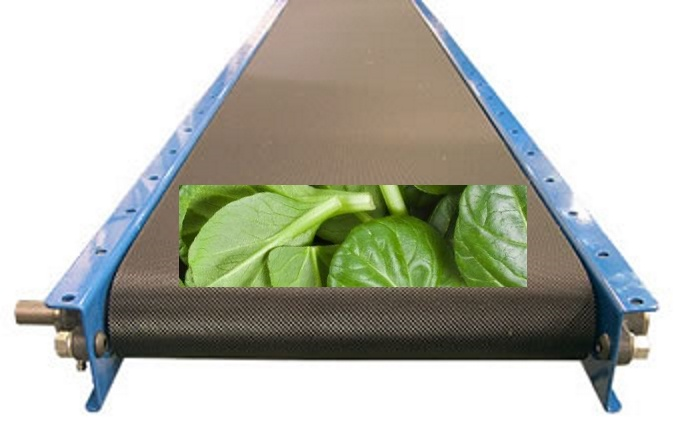
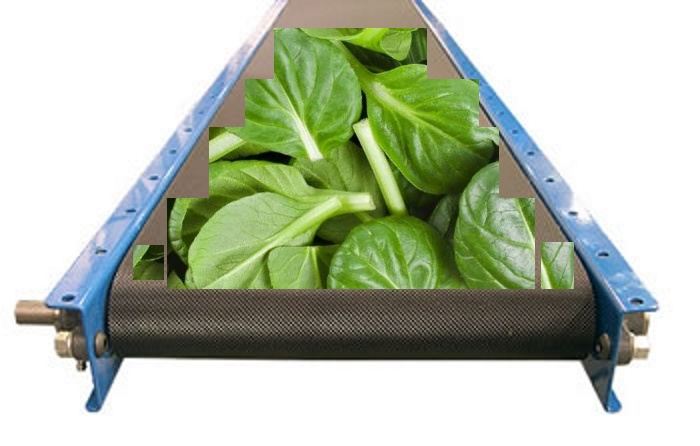
Added in batch 1 of 5 of additional generate sample functionality from more advanced, problematic script.

Changed region(s): [[0.18, 0.0583, 0.84, 0.6704]]

diff --git a/scripts/sampleGeneration_scripts/generate_sample.py b/scripts/sampleGeneration_scripts/generate_sample.py
@@ -1,8 +1,16 @@
+'''
+For usage: python generate_sample.py -h
+
+Selct area to place sample, then press enter.
+'''
+
 import sys
 import os
 import numpy as np
 import cv2
 import math
+import argparse
+
 
 
 
@@ -17,23 +25,44 @@ def replace_selection(roi, background, rotated_sample):
     cropped_sample = rotated_sample[roi[1]:(roi[1]+roi[3]), roi[0]:(roi[0]+roi[2])].copy()
     background_template[roi[1]:(roi[1]+roi[3]), roi[0]:(roi[0]+roi[2])] = cropped_sample
     return background_template
-    
 
 
-background = cv2.imread(sys.argv[1], 1)
-sample_greens = cv2.imread(sys.argv[2], 1)
-degrees_per = int(sys.argv[3]) 
-times = int(sys.argv[4])
 
-path = './generated_results'
+ap = argparse.ArgumentParser()
+
+ap.add_argument("-b", "--background", help = "base background of image", nargs = 1)
+ap.add_argument("-s", "--sample", help = "base sample of image", nargs = 1)
+ap.add_argument("-d", "--degrees", help = "minimum number of degrees to rotate", default = 10, type = int, nargs = 1)
+ap.add_argument("-q", "--quantity", help = "number of output images", default = 20, type = int, nargs = 1)
+ap.add_argument("-p", "--path", help = "output path", default = ["./generated_results"], nargs = 1)
+ap.add_argument("-m", "--multiple", help = "flag for allowing multiple region selection on images", nargs = '?', const = 5, default = 0, type = int)
+
+args = vars(ap.parse_args())
+
+background = cv2.imread(args["background"][0], 1)
+sample_greens = cv2.imread(args["sample"][0], 1)
+degrees_per = args["degrees"]
+quantity = args["quantity"]
+path = args["path"][0] 
+mul_count = args["multiple"]
 
 roi = cv2.selectROI(background)
 degrees = 0
-for i in range(times):
+combined_images = []
+for i in range(quantity):
     rotated_sample = rotateImage(sample_greens, degrees)
-    combined_image = replace_selection(roi, background, rotated_sample)
-    image_name = "sample_image_" + str(i) + ".jpg"
+    combined_images.append(replace_selection(roi, background, rotated_sample))
     degrees += degrees_per
-    cv2.imwrite(os.path.join(path, image_name), combined_image)
 
-    
+for i in range(mul_count):
+    roi = cv2.selectROI(combined_images[0])
+    degrees = 0
+    for index, image in enumerate(combined_images):
+        rotated_sample = rotateImage(sample_greens, degrees)
+        combined_images[index] = replace_selection(roi, image, rotated_sample)
+        degrees += degrees_per
+
+
+for index, image in enumerate(combined_images):
+    image_name = "sample_image_" + str(index) + ".jpg"
+    cv2.imwrite(os.path.join(path, image_name), image)
